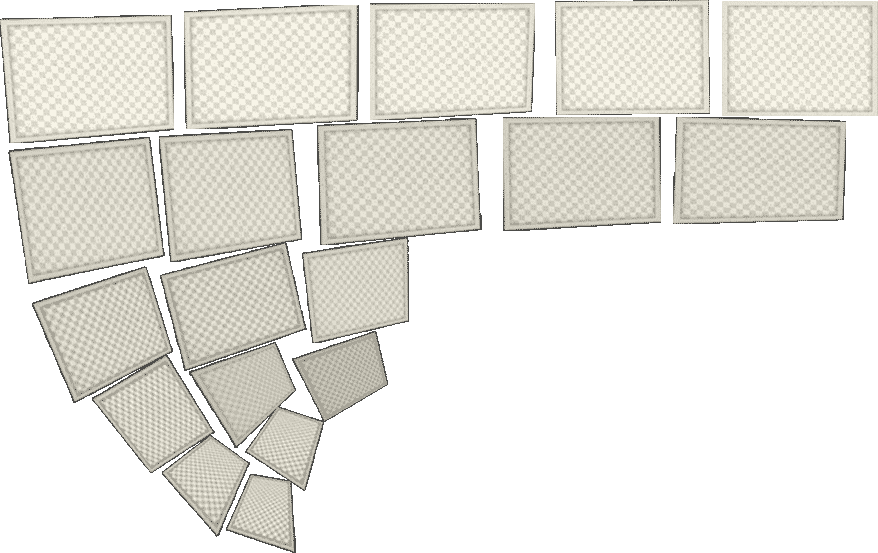
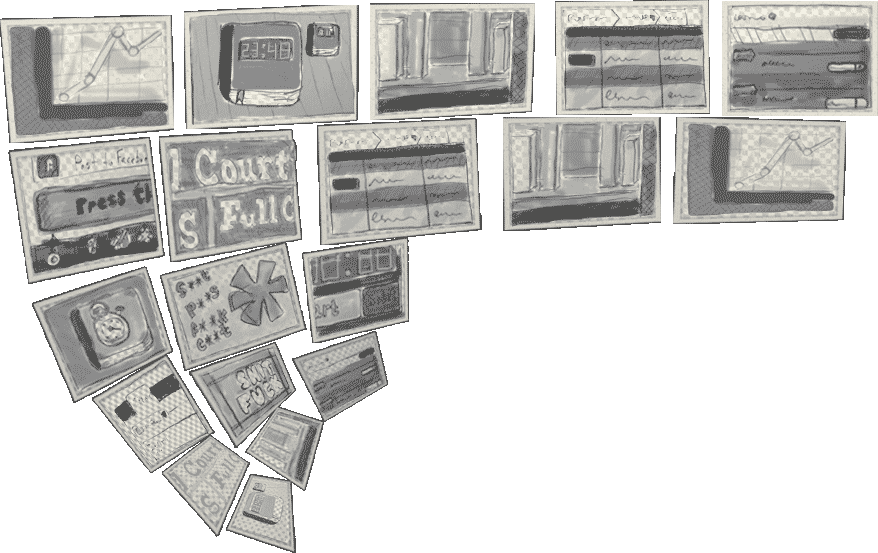
Adding Jribbble project

diff --git a/c/css/dist/core.css b/c/css/dist/core.css
@@ -1,1 +1,1 @@
-html,body,div,span,applet,object,iframe,h1,h2,h3,h4,h5,h6,p,blockquote,pre,a,abbr,acronym,address,big,cite,code,del,dfn,em,img,ins,kbd,q,s,samp,small,strike,strong,sub,sup,tt,var,b,u,i,center,dl,dt,dd,ol,ul,li,fieldset,form,label,legend,table,caption,tbody,tfoot,thead,tr,th,td,article,aside,canvas,details,embed,figure,figcaption,footer,header,hgroup,menu,nav,output,ruby,section,summary,time,mark,audio,video{margin:0;padding:0;border:0;font-size:100%;font:inherit;vertical-align:baseline}article,aside,details,figcaption,figure,footer,header,hgroup,menu,nav,section{display:block}body{line-height:1}ol,ul{list-style:none}blockquote,q{quotes:none}blockquote:before,blockquote:after,q:before,q:after{content:'';content:none}table{border-collapse:collapse;border-spacing:0}@font-face{font-family:"BebasNeueRegular";src:url("/fonts/BebasNeue-webfont.eot");src:url("/fonts/BebasNeue-webfont.eot?iefix") format("eot"), url("/fonts/BebasNeue-webfont.woff") format("woff"), url("/fonts/BebasNeue-webfont.ttf") format("truetype"), url("/fonts/BebasNeue-webfont.svg#webfontfvFLBU0N") format("svg")}::-moz-selection{background-color:#fce704;color:#201f1e;text-shadow:none}::selection{background-color:#fce704;color:#201f1e;-webkit-text-fill-color:#201f1e;text-shadow:none}html{background:#fefefe url(/images/html_bg_tile.gif) repeat 95%;padding:5px}body{background-color:#2b2a29;background-image:url(/images/body_bg_tile_03.png), url(/images/body_bg_tile_02.png), url(/images/body_bg_tile_01.png);background-repeat:repeat;background-position:95% -50%, 120%, 80%;border-width:6px;-moz-border-image:url(/images/body_border.png) 10 10 10 10 repeat repeat;-webkit-border-image:url(/images/body_border.png) 10 10 10 10 repeat repeat;border-image:url(/images/body_border.png) 10 10 10 10 repeat repeat;color:#f4efd3}header[role="banner"]{background-color:transparent;background-image:url(/images/banner_btm_border.png), url(/images/body_bg_tile_02.png), url(/images/banner_bg_tile.png);background-repeat:repeat-x, repeat, repeat;background-position:90% 105%, 70%, 90%;-moz-border-radius-topleft:6px;-webkit-border-top-left-radius:6px;-o-border-top-left-radius:6px;-ms-border-top-left-radius:6px;-khtml-border-top-left-radius:6px;border-top-left-radius:6px;-moz-border-radius-topright:6px;-webkit-border-top-right-radius:6px;-o-border-top-right-radius:6px;-ms-border-top-right-radius:6px;-khtml-border-top-right-radius:6px;border-top-right-radius:6px;color:#f0e9d7;font-family:helvetica, arial, sans-serif}header[role="banner"] > a{display:block;margin:0 auto;max-width:900px;opacity:0.9;padding:10px;text-align:center}header[role="banner"] > a:hover{opacity:1}header[role="banner"] hgroup{background:transparent url(/images/banner.png) no-repeat center top;-moz-background-size:100%;-webkit-background-size:100%;-o-background-size:100%;background-size:100%;padding-top:8.9%}header[role="banner"] h1,header[role="banner"] h2{font-size:1em;text-indent:-3000em}@media all and (max-width: 500px){header[role="banner"] > a{padding-top:4px}header[role="banner"] hgroup{background-image:url(/images/banner_narrow.png);padding-top:18%}}nav{margin:0 auto;max-width:900px;padding-right:12px}nav ul{background:#efe62f url(/images/header_text_bg_01.jpg) repeat left bottom;border-bottom:1px solid rgba(29, 29, 29, 0.5);display:inline-block;float:right;margin-bottom:-20px;padding:1px 8px 1px 8px;position:relative;top:-21px;-moz-transform:rotate(-0.4deg);-webkit-transform:rotate(-0.4deg);-o-transform:rotate(-0.4deg);-ms-transform:rotate(-0.4deg);transform:rotate(-0.4deg)}nav li{display:inline-block;margin-right:16px}nav li:last-child{margin-right:0}nav a{border-bottom:4px solid transparent;color:#2e2e2e;display:inline-block;font:2.3em/1em "atrament-web-1", "atrament-web-2", "BebasNeueRegular", helvetica, sans-serif;text-decoration:none;text-transform:uppercase}nav a:hover{border-bottom-color:#d45415;color:#000}#page-projects nav a[href*='projects'],#page-articles nav a[href*='articles'],#page-info nav a[href*='info']{border-bottom-color:#d45415;color:#000;cursor:default}#content{clear:both;font:1.3em/1em "chaparral-pro-1", "chaparral-pro-2", "Chaparral Pro", georgia, serif;-webkit-font-smoothing:antialiased}#content a{color:#fdec33;text-decoration:none}#content a:hover{background-color:rgba(255, 3, 104, 0.1);text-decoration:none;text-shadow:none}#content a.disabled{color:#757575;cursor:default}#content a.disabled:hover{background-color:transparent}h1{color:#fdec33;font:3.2em/1em "atrament-web-1", "atrament-web-2", "BebasNeueRegular", helvetica, sans-serif;text-transform:uppercase}footer[role="authorinfo"]{background:rgba(14, 14, 13, 0.1) url(/images/footer_top_border.png) repeat-x 90% top;-moz-border-radius-bottomleft:6px;-webkit-border-bottom-left-radius:6px;-o-border-bottom-left-radius:6px;-ms-border-bottom-left-radius:6px;-khtml-border-bottom-left-radius:6px;border-bottom-left-radius:6px;-moz-border-radius-bottomright:6px;-webkit-border-bottom-right-radius:6px;-o-border-bottom-right-radius:6px;-ms-border-bottom-right-radius:6px;-khtml-border-bottom-right-radius:6px;border-bottom-right-radius:6px;padding:15px 0;text-align:center}footer[role="authorinfo"] ul{margin:0 auto;max-width:900px}footer[role="authorinfo"] li{background:transparent url(/images/footer_item_divider.png) no-repeat right center;display:inline-block;padding-right:65px}footer[role="authorinfo"] li:last-child{background-image:none;padding-right:0}footer[role="authorinfo"] a{background:-moz-radial-gradient(center 45deg, circle closest-side, rgba(90, 169, 219, 0.2) 20px, transparent 21px);background:-webkit-gradient(radial, center center, 20, center center, 21, from(rgba(90, 169, 219, 0.2)), to(transparent));color:#f0f1f2;display:inline-block;font:2.1em/1em "atrament-web-1", "atrament-web-2", "BebasNeueRegular", helvetica, sans-serif;opacity:0.85;padding:6px 0px 9px 0px;text-align:center;text-decoration:none;text-transform:uppercase;text-shadow:rgba(0, 0, 0, 0.2) 0px 1px 1px}footer[role="authorinfo"] a:hover{opacity:1}footer[role="authorinfo"] a[href*='twitter']{background:-moz-radial-gradient(center 45deg, circle closest-side, rgba(90, 169, 219, 0.3) 20px, transparent 21px);background:-webkit-gradient(radial, center center, 20, center center, 21, from(rgba(90, 169, 219, 0.3)), to(transparent))}footer[role="authorinfo"] a[href*='dribbble']{background:-moz-radial-gradient(center 45deg, circle closest-side, rgba(246, 77, 192, 0.3) 20px, transparent 21px);background:-webkit-gradient(radial, center center, 20, center center, 21, from(rgba(246, 77, 192, 0.3)), to(transparent))}footer[role="authorinfo"] a[href*='rss']{background:-moz-radial-gradient(center 45deg, circle closest-side, rgba(255, 130, 39, 0.3) 20px, transparent 21px);background:-webkit-gradient(radial, center center, 20, center center, 21, from(rgba(255, 130, 39, 0.3)), to(transparent))}footer[role="authorinfo"] a[href*='readability']{background:-moz-radial-gradient(center 45deg, circle closest-side, rgba(184, 28, 40, 0.3) 20px, transparent 21px);background:-webkit-gradient(radial, center center, 20, center center, 21, from(rgba(184, 28, 40, 0.3)), to(transparent))}@media all and (max-width: 615px){footer[role="authorinfo"] a{font-size:1.7em}footer[role="authorinfo"] li{padding-right:40px}}#articles{clear:both;margin:0 auto;max-width:900px;overflow:hidden;padding:0 10px 15px 10px}#articles li{background-color:transparent;background-repeat:no-repeat;background-position:4% center;-moz-background-size:18%;-webkit-background-size:18%;-o-background-size:18%;background-size:18%;margin:10px auto}#articles a{display:block;padding:36px 0 40px 26%;-moz-transition-property:padding;-webkit-transition-property:padding;-o-transition-property:padding;transition-property:padding;-moz-transition-duration:0.2s;-webkit-transition-duration:0.2s;-o-transition-duration:0.2s;transition-duration:0.2s}#articles a:hover{background-color:transparent}#articles a:hover b{background-color:rgba(255, 3, 104, 0.1);border-bottom-color:#fdec33}#articles time{background:transparent url(/images/horizontal_divider.png) repeat-x 20% center;color:#2d2d2d;display:block;font-size:0.75em;font-style:italic;font-weight:600}#articles time span{background-color:#eedf42;padding:0 4px}#articles h2{color:#f1f1f1;font:2.5em/1em "atrament-web-1", "atrament-web-2", "BebasNeueRegular", helvetica, sans-serif;margin-top:4px;text-transform:uppercase}#articles p{color:#f1f1f1;clear:right;font-size:0.95em;font-style:italic;line-height:1.3em}#articles b{border-bottom:1px solid rgba(253, 236, 51, 0.2);display:inline-block;font-size:0.75em;font-style:italic;margin-top:8px;float:right}#articles .all-talkie-talkie{background-image:url(/images/entryAssets/all-talkie-talkie/listingGraphic.png);-moz-background-size:22%;-webkit-background-size:22%;-o-background-size:22%;background-size:22%}#articles .i-less-than-three-ie6{background-image:url(/images/entryAssets/i-less-than-three-ie6/listingGraphic.png)}#articles .you-did-what-with-what{background-image:url(/images/entryAssets/you-did-what-with-what/listingGraphic.png);-moz-background-size:20%;-webkit-background-size:20%;-o-background-size:20%;background-size:20%}@media all and (max-width: 615px){#articles h2{font-size:1.8em}#articles li,#articles .i-less-than-three-ie6,#articles .you-did-what-with-what,#articles .all-talkie-talkie{background-image:none;width:95%}#articles a{padding:18px 0 24px 0}}#article{clear:both;margin:0 auto;max-width:900px;overflow:hidden;padding:0 10px 15px 10px}.hentry footer{background:transparent url(/images/yellow_border.png) no-repeat 110% top;clear:both;float:right;font-size:0.8em;padding-top:14px;width:70%}.hentry footer strong{background:transparent url(/images/article_thanks.png) no-repeat left top;display:inline-block;height:56px;position:relative;text-indent:-300em;top:-18px;left:-15px;width:239px}.hentry footer a{float:right;margin-right:14px}.entry-title{clear:both;font-size:3.8em;margin-bottom:20px;padding:14px 0 10px 30%}.entry-content{float:right;width:70%}.entry-content p{font-size:1.08em;line-height:1.25em;padding-bottom:1.4em;text-shadow:#080808 0px 0px 2px}.entry-content p:last-child{padding-bottom:0.8em}.entry-content p img{width:100%}.entry-content p strong{color:#fff;font-weight:700}.entry-content p.intro{color:#f1f1f1;font-size:1.22em;font-style:italic;padding-bottom:1.6em}.entry-meta{float:left;font-size:0.75em;margin-top:10px;width:30%}.entry-meta i{color:#9e9b8b;font-style:italic;font-weight:400;display:inline-block;width:75px}.entry-meta li{padding-bottom:3px;font-weight:600}.entry-meta #rdbWrapper{background:transparent url(/images/horizontal_divider.png) repeat-x left top;margin-top:4px;min-width:160px;padding-top:15px;width:65%}@media all and (max-width: 690px){.entry-meta{background-image:url(/images/horizontal_divider.png), url(/images/horizontal_divider.png);background-repeat:repeat-x;background-position:left top, left bottom;float:none;margin-bottom:20px;overflow:hidden;padding:15px 0 8px 0;width:95%}.entry-meta li{padding:0 0 0 15px}.entry-meta #rdbWrapper{background:none;margin-top:6px;min-width:auto;padding-top:0;width:auto}.entry-content{float:none;margin:0 auto;width:95%}.hentry footer{background:transparent url(/images/yellow_border.png) no-repeat 110% top;float:none;margin:0 auto;width:95%}}@media all and (max-width: 480px){.hentry footer strong{-moz-background-size:100%;-webkit-background-size:100%;-o-background-size:100%;background-size:100%;top:-8px;width:200px}}#article #i-less-than-three-ie6{background:transparent url(/images/entryAssets/i-less-than-three-ie6/ie6Logo.png) no-repeat 5% top;-moz-background-size:55%;-webkit-background-size:55%;-o-background-size:55%;background-size:55%;overflow:hidden}#article #i-less-than-three-ie6 .entry-title{color:#0490da;font:5em/1em "atrament-web-1", "atrament-web-2", "BebasNeueRegular", helvetica, sans-serif;font-weight:600;letter-spacing:0.05em;padding:40px 0 30px 0;text-align:center;text-shadow:#054f76 1px 1px 0px, #043f5e 2px 2px 0px, #03354f 3px 3px 0px, #03324a 4px 4px 0px, #032e45 5px 5px 0px}#article #i-less-than-three-ie6 .entry-title::-moz-selection{background-color:#d20d24;color:#fff;text-shadow:none}#article #i-less-than-three-ie6 .entry-title::selection{background-color:#d20d24;color:#fff;text-shadow:none;-webkit-text-fill-color:#fff}#article #i-less-than-three-ie6 .entry-title span{color:#f40b27;text-shadow:#860000 1px 1px 0px, #6d0000 2px 2px 0px, #5d0000 3px 3px 0px, #580000 4px 4px 0px, #530000 5px 5px 0px}#article #i-less-than-three-ie6 .entry-title span::-moz-selection{background-color:#d20d24;color:#fff;text-shadow:none}#article #i-less-than-three-ie6 .entry-title span::selection{background-color:#d20d24;color:#fff;text-shadow:none;-webkit-text-fill-color:#fff}#article #i-less-than-three-ie6 .dropCap{color:#0490da;display:inline-block;font-size:4.2em;font-style:normal;line-height:0.75em;text-align:left;text-shadow:#054f76 1px 1px 0px, #043f5e 2px 2px 0px, #03354f 3px 3px 0px, #03324a 4px 4px 0px, #032e45 5px 5px 0px;vertical-align:top;float:left;width:48px;padding-top:10px}#projects{margin:0 auto;max-width:900px;overflow:hidden;padding:20px 0;width:95%}#projects li{margin:0 auto 40px auto;overflow:hidden;width:100%;-moz-transition-duration:0.2s;-webkit-transition-duration:0.2s;-o-transition-duration:0.2s;transition-duration:0.2s;-moz-transition-property:background-position, padding;-webkit-transition-property:background-position, padding;-o-transition-property:background-position, padding;transition-property:background-position, padding}#projects h1{background:transparent url(/images/fuzzy_grain.png) repeat 90%;color:#1d1d1d;display:inline-block;font-size:4em;-moz-transition-duration:0.2s;-webkit-transition-duration:0.2s;-o-transition-duration:0.2s;transition-duration:0.2s;-moz-transition-property:font-size;-webkit-transition-property:font-size;-o-transition-property:font-size;transition-property:font-size}#projects p{line-height:1.3;-moz-transition-duration:0.2s;-webkit-transition-duration:0.2s;-o-transition-duration:0.2s;transition-duration:0.2s;-moz-transition-property:width;-webkit-transition-property:width;-o-transition-property:width;transition-property:width;width:51%}#projects footer{background:transparent url(/images/horizontal_divider.png) repeat-x left top;line-height:1.3;margin-top:12px;padding-top:12px;text-align:right;width:50%}#projects footer a:first-child{font-size:1.12em;font-weight:600}#projects footer a:last-child{color:#8b8a88;font-size:0.9em;font-style:italic}#projects footer a:last-child mark{background-color:transparent;color:#fffde3}@media all and (max-width: 600px){#projects li{width:95%}#projects p{float:right;font-size:0.85em;width:65%}#projects footer{clear:both;float:right;width:100%}}.alternate-layout p,#fullcourtshots p,.alternate-layout footer,#fullcourtshots footer{clear:right;float:right}#fullcourtshots{background:transparent url(/images/project_fcs_bg_full.png) no-repeat 39% 30%;-moz-background-size:94%;-webkit-background-size:94%;-o-background-size:94%;background-size:94%;padding:15% 0 8% 0}#fullcourtshots h1{background-color:#ea8111;clear:both;float:right;font-size:5.8em;line-height:0.8;margin-bottom:18px;text-align:right}@media all and (max-width: 750px){#fullcourtshots{background-position:39% 14%;padding:15% 0 0 0}#fullcourtshots h1{font-size:4.6em;margin-bottom:8px}}@media all and (max-width: 600px){#fullcourtshots{background:transparent url(/images/project_fcs_bg_small.png) no-repeat left 25%;-moz-background-size:34%;-webkit-background-size:34%;-o-background-size:34%;background-size:34%;padding:0}#fullcourtshots h1{font-size:2.6em;text-align:left;float:none}}#themanfromhollywood{background:transparent url(/images/project_mfh_bg_full.png) no-repeat right 45%;-moz-background-size:98%;-webkit-background-size:98%;-o-background-size:98%;background-size:98%;padding:11% 0 2% 0}#themanfromhollywood h1{background-image:none;clear:both;font-size:5.8em;line-height:0.85;margin-bottom:14px}#themanfromhollywood h1 span{background:#a8194b url(/images/fuzzy_grain.png) repeat 90%;display:inline-block}#themanfromhollywood h1 span:first-child{font-size:0.85em}@media all and (max-width: 720px){#themanfromhollywood{background-position:right top;padding:8% 0 0 0}#themanfromhollywood h1{font-size:4.9em}}@media all and (max-width: 600px){#themanfromhollywood{background:transparent url(/images/project_mfh_bg_small.png) no-repeat left 120px;-moz-background-size:34%;-webkit-background-size:34%;-o-background-size:34%;background-size:34%;padding:0}#themanfromhollywood h1{font-size:3em;text-align:left;float:none}}#info{background:transparent url(/images/tylergaw_portrait.png) no-repeat 34% top;clear:both;margin:26px auto 0 auto;max-width:900px;overflow:hidden;padding:0 10px 15px 10px;-moz-transition-property:background-position;-webkit-transition-property:background-position;-o-transition-property:background-position;transition-property:background-position;-moz-transition-duration:0.2s;-webkit-transition-duration:0.2s;-o-transition-duration:0.2s;transition-duration:0.2s}#info h1{background:#ff0368 url(/images/fuzzy_grain.png) repeat 90%;clear:both;color:#1d1d1d;display:inline-block;float:left;font-size:3.5em;line-height:0.78em;margin-bottom:14px;overflow:hidden}#info .column-one{clear:left;float:left;width:35%}#info .column-two{clear:right;float:right;width:46%}#info .column-two p{clear:both;float:right;width:75%}#info .column-two h3{background-color:#f2e517;clear:both;color:#2b2a29;font-size:1.1em;font-weight:600;padding:6px 4px 7px 4px;text-align:right}#info .column-two h3 a{color:#e82573;text-decoration:none}#info .column-two h3 a:hover{color:black;background-color:transparent}#info p{font-size:0.95em;line-height:1.3em;padding-bottom:16px;text-shadow:#080808 0px 0px 2px}@media all and (max-width: 810px){#info{background-position:35% 6px;-moz-background-size:78%;-webkit-background-size:78%;-o-background-size:78%;background-size:78%}}@media all and (max-width: 615px){#info{background-position:200% 20px}#info h1{font-size:2.5em}#info .column-one p{width:70%}#info .column-one,#info .column-two,#info .column-two p{clear:both;float:none;width:100%}#info .column-two h3{text-align:center}}@media all and (max-width: 480px){#info h1{font-size:2.1em;margin-bottom:8px}}
+html,body,div,span,applet,object,iframe,h1,h2,h3,h4,h5,h6,p,blockquote,pre,a,abbr,acronym,address,big,cite,code,del,dfn,em,img,ins,kbd,q,s,samp,small,strike,strong,sub,sup,tt,var,b,u,i,center,dl,dt,dd,ol,ul,li,fieldset,form,label,legend,table,caption,tbody,tfoot,thead,tr,th,td,article,aside,canvas,details,embed,figure,figcaption,footer,header,hgroup,menu,nav,output,ruby,section,summary,time,mark,audio,video{margin:0;padding:0;border:0;font-size:100%;font:inherit;vertical-align:baseline}article,aside,details,figcaption,figure,footer,header,hgroup,menu,nav,section{display:block}body{line-height:1}ol,ul{list-style:none}blockquote,q{quotes:none}blockquote:before,blockquote:after,q:before,q:after{content:'';content:none}table{border-collapse:collapse;border-spacing:0}@font-face{font-family:"BebasNeueRegular";src:url("/fonts/BebasNeue-webfont.eot");src:url("/fonts/BebasNeue-webfont.eot?iefix") format("eot"), url("/fonts/BebasNeue-webfont.woff") format("woff"), url("/fonts/BebasNeue-webfont.ttf") format("truetype"), url("/fonts/BebasNeue-webfont.svg#webfontfvFLBU0N") format("svg")}::-moz-selection{background-color:#fce704;color:#201f1e;text-shadow:none}::selection{background-color:#fce704;color:#201f1e;-webkit-text-fill-color:#201f1e;text-shadow:none}html{background:#fefefe url(/images/html_bg_tile.gif) repeat 95%;padding:5px}body{background-color:#2b2a29;background-image:url(/images/body_bg_tile_03.png), url(/images/body_bg_tile_02.png), url(/images/body_bg_tile_01.png);background-repeat:repeat;background-position:95% -50%, 120%, 80%;border-width:6px;-moz-border-image:url(/images/body_border.png) 10 10 10 10 repeat repeat;-webkit-border-image:url(/images/body_border.png) 10 10 10 10 repeat repeat;border-image:url(/images/body_border.png) 10 10 10 10 repeat repeat;color:#f4efd3}header[role="banner"]{background-color:transparent;background-image:url(/images/banner_btm_border.png), url(/images/body_bg_tile_02.png), url(/images/banner_bg_tile.png);background-repeat:repeat-x, repeat, repeat;background-position:90% 105%, 70%, 90%;-moz-border-radius-topleft:6px;-webkit-border-top-left-radius:6px;-o-border-top-left-radius:6px;-ms-border-top-left-radius:6px;-khtml-border-top-left-radius:6px;border-top-left-radius:6px;-moz-border-radius-topright:6px;-webkit-border-top-right-radius:6px;-o-border-top-right-radius:6px;-ms-border-top-right-radius:6px;-khtml-border-top-right-radius:6px;border-top-right-radius:6px;color:#f0e9d7;font-family:helvetica, arial, sans-serif}header[role="banner"] > a{display:block;margin:0 auto;max-width:900px;opacity:0.9;padding:10px;text-align:center}header[role="banner"] > a:hover{opacity:1}header[role="banner"] hgroup{background:transparent url(/images/banner.png) no-repeat center top;-moz-background-size:100%;-webkit-background-size:100%;-o-background-size:100%;background-size:100%;padding-top:8.9%}header[role="banner"] h1,header[role="banner"] h2{font-size:1em;text-indent:-3000em}@media all and (max-width: 500px){header[role="banner"] > a{padding-top:4px}header[role="banner"] hgroup{background-image:url(/images/banner_narrow.png);padding-top:18%}}nav{margin:0 auto;max-width:900px;padding-right:12px}nav ul{background:#efe62f url(/images/header_text_bg_01.jpg) repeat left bottom;border-bottom:1px solid rgba(29, 29, 29, 0.5);display:inline-block;float:right;margin-bottom:-20px;padding:1px 8px 1px 8px;position:relative;top:-21px;-moz-transform:rotate(-0.4deg);-webkit-transform:rotate(-0.4deg);-o-transform:rotate(-0.4deg);-ms-transform:rotate(-0.4deg);transform:rotate(-0.4deg)}nav li{display:inline-block;margin-right:16px}nav li:last-child{margin-right:0}nav a{border-bottom:4px solid transparent;color:#2e2e2e;display:inline-block;font:2.3em/1em "atrament-web-1", "atrament-web-2", "BebasNeueRegular", helvetica, sans-serif;text-decoration:none;text-transform:uppercase}nav a:hover{border-bottom-color:#d45415;color:#000}#page-projects nav a[href*='projects'],#page-articles nav a[href*='articles'],#page-info nav a[href*='info']{border-bottom-color:#d45415;color:#000;cursor:default}#content{clear:both;font:1.3em/1em "chaparral-pro-1", "chaparral-pro-2", "Chaparral Pro", georgia, serif;-webkit-font-smoothing:antialiased}#content a{color:#fdec33;text-decoration:none}#content a:hover{background-color:rgba(255, 3, 104, 0.1);text-decoration:none;text-shadow:none}#content a.disabled{color:#757575;cursor:default}#content a.disabled:hover{background-color:transparent}h1{color:#fdec33;font:3.2em/1em "atrament-web-1", "atrament-web-2", "BebasNeueRegular", helvetica, sans-serif;text-transform:uppercase}footer[role="authorinfo"]{background:rgba(14, 14, 13, 0.1) url(/images/footer_top_border.png) repeat-x 90% top;-moz-border-radius-bottomleft:6px;-webkit-border-bottom-left-radius:6px;-o-border-bottom-left-radius:6px;-ms-border-bottom-left-radius:6px;-khtml-border-bottom-left-radius:6px;border-bottom-left-radius:6px;-moz-border-radius-bottomright:6px;-webkit-border-bottom-right-radius:6px;-o-border-bottom-right-radius:6px;-ms-border-bottom-right-radius:6px;-khtml-border-bottom-right-radius:6px;border-bottom-right-radius:6px;padding:15px 0;text-align:center}footer[role="authorinfo"] ul{margin:0 auto;max-width:900px}footer[role="authorinfo"] li{background:transparent url(/images/footer_item_divider.png) no-repeat right center;display:inline-block;padding-right:65px}footer[role="authorinfo"] li:last-child{background-image:none;padding-right:0}footer[role="authorinfo"] a{background:-moz-radial-gradient(center 45deg, circle closest-side, rgba(90, 169, 219, 0.2) 20px, transparent 21px);background:-webkit-gradient(radial, center center, 20, center center, 21, from(rgba(90, 169, 219, 0.2)), to(transparent));color:#f0f1f2;display:inline-block;font:2.1em/1em "atrament-web-1", "atrament-web-2", "BebasNeueRegular", helvetica, sans-serif;opacity:0.85;padding:6px 0px 9px 0px;text-align:center;text-decoration:none;text-transform:uppercase;text-shadow:rgba(0, 0, 0, 0.2) 0px 1px 1px}footer[role="authorinfo"] a:hover{opacity:1}footer[role="authorinfo"] a[href*='twitter']{background:-moz-radial-gradient(center 45deg, circle closest-side, rgba(90, 169, 219, 0.3) 20px, transparent 21px);background:-webkit-gradient(radial, center center, 20, center center, 21, from(rgba(90, 169, 219, 0.3)), to(transparent))}footer[role="authorinfo"] a[href*='dribbble']{background:-moz-radial-gradient(center 45deg, circle closest-side, rgba(246, 77, 192, 0.3) 20px, transparent 21px);background:-webkit-gradient(radial, center center, 20, center center, 21, from(rgba(246, 77, 192, 0.3)), to(transparent))}footer[role="authorinfo"] a[href*='rss']{background:-moz-radial-gradient(center 45deg, circle closest-side, rgba(255, 130, 39, 0.3) 20px, transparent 21px);background:-webkit-gradient(radial, center center, 20, center center, 21, from(rgba(255, 130, 39, 0.3)), to(transparent))}footer[role="authorinfo"] a[href*='readability']{background:-moz-radial-gradient(center 45deg, circle closest-side, rgba(184, 28, 40, 0.3) 20px, transparent 21px);background:-webkit-gradient(radial, center center, 20, center center, 21, from(rgba(184, 28, 40, 0.3)), to(transparent))}@media all and (max-width: 615px){footer[role="authorinfo"] a{font-size:1.7em}footer[role="authorinfo"] li{padding-right:40px}}#articles{clear:both;margin:0 auto;max-width:900px;overflow:hidden;padding:0 10px 15px 10px}#articles li{background-color:transparent;background-repeat:no-repeat;background-position:4% center;-moz-background-size:18%;-webkit-background-size:18%;-o-background-size:18%;background-size:18%;margin:10px auto}#articles a{display:block;padding:36px 0 40px 26%;-moz-transition-property:padding;-webkit-transition-property:padding;-o-transition-property:padding;transition-property:padding;-moz-transition-duration:0.2s;-webkit-transition-duration:0.2s;-o-transition-duration:0.2s;transition-duration:0.2s}#articles a:hover{background-color:transparent}#articles a:hover b{background-color:rgba(255, 3, 104, 0.1);border-bottom-color:#fdec33}#articles time{background:transparent url(/images/horizontal_divider.png) repeat-x 20% center;color:#2d2d2d;display:block;font-size:0.75em;font-style:italic;font-weight:600}#articles time span{background-color:#eedf42;padding:0 4px}#articles h2{color:#f1f1f1;font:2.5em/1em "atrament-web-1", "atrament-web-2", "BebasNeueRegular", helvetica, sans-serif;margin-top:4px;text-transform:uppercase}#articles p{color:#f1f1f1;clear:right;font-size:0.95em;font-style:italic;line-height:1.3em}#articles b{border-bottom:1px solid rgba(253, 236, 51, 0.2);display:inline-block;font-size:0.75em;font-style:italic;margin-top:8px;float:right}#articles .all-talkie-talkie{background-image:url(/images/entryAssets/all-talkie-talkie/listingGraphic.png);-moz-background-size:22%;-webkit-background-size:22%;-o-background-size:22%;background-size:22%}#articles .i-less-than-three-ie6{background-image:url(/images/entryAssets/i-less-than-three-ie6/listingGraphic.png)}#articles .you-did-what-with-what{background-image:url(/images/entryAssets/you-did-what-with-what/listingGraphic.png);-moz-background-size:20%;-webkit-background-size:20%;-o-background-size:20%;background-size:20%}@media all and (max-width: 615px){#articles h2{font-size:1.8em}#articles li,#articles .i-less-than-three-ie6,#articles .you-did-what-with-what,#articles .all-talkie-talkie{background-image:none;width:95%}#articles a{padding:18px 0 24px 0}}#article{clear:both;margin:0 auto;max-width:900px;overflow:hidden;padding:0 10px 15px 10px}.hentry footer{background:transparent url(/images/yellow_border.png) no-repeat 110% top;clear:both;float:right;font-size:0.8em;padding-top:14px;width:70%}.hentry footer strong{background:transparent url(/images/article_thanks.png) no-repeat left top;display:inline-block;height:56px;position:relative;text-indent:-300em;top:-18px;left:-15px;width:239px}.hentry footer a{float:right;margin-right:14px}.entry-title{clear:both;font-size:3.8em;margin-bottom:20px;padding:14px 0 10px 30%}.entry-content{float:right;width:70%}.entry-content p{font-size:1.08em;line-height:1.25em;padding-bottom:1.4em;text-shadow:#080808 0px 0px 2px}.entry-content p:last-child{padding-bottom:0.8em}.entry-content p img{width:100%}.entry-content p strong{color:#fff;font-weight:700}.entry-content p.intro{color:#f1f1f1;font-size:1.22em;font-style:italic;padding-bottom:1.6em}.entry-meta{float:left;font-size:0.75em;margin-top:10px;width:30%}.entry-meta i{color:#9e9b8b;font-style:italic;font-weight:400;display:inline-block;width:75px}.entry-meta li{padding-bottom:3px;font-weight:600}.entry-meta #rdbWrapper{background:transparent url(/images/horizontal_divider.png) repeat-x left top;margin-top:4px;min-width:160px;padding-top:15px;width:65%}@media all and (max-width: 690px){.entry-meta{background-image:url(/images/horizontal_divider.png), url(/images/horizontal_divider.png);background-repeat:repeat-x;background-position:left top, left bottom;float:none;margin-bottom:20px;overflow:hidden;padding:15px 0 8px 0;width:95%}.entry-meta li{padding:0 0 0 15px}.entry-meta #rdbWrapper{background:none;margin-top:6px;min-width:auto;padding-top:0;width:auto}.entry-content{float:none;margin:0 auto;width:95%}.hentry footer{background:transparent url(/images/yellow_border.png) no-repeat 110% top;float:none;margin:0 auto;width:95%}}@media all and (max-width: 480px){.hentry footer strong{-moz-background-size:100%;-webkit-background-size:100%;-o-background-size:100%;background-size:100%;top:-8px;width:200px}}#article #i-less-than-three-ie6{background:transparent url(/images/entryAssets/i-less-than-three-ie6/ie6Logo.png) no-repeat 5% top;-moz-background-size:55%;-webkit-background-size:55%;-o-background-size:55%;background-size:55%;overflow:hidden}#article #i-less-than-three-ie6 .entry-title{color:#0490da;font:5em/1em "atrament-web-1", "atrament-web-2", "BebasNeueRegular", helvetica, sans-serif;font-weight:600;letter-spacing:0.05em;padding:40px 0 30px 0;text-align:center;text-shadow:#054f76 1px 1px 0px, #043f5e 2px 2px 0px, #03354f 3px 3px 0px, #03324a 4px 4px 0px, #032e45 5px 5px 0px}#article #i-less-than-three-ie6 .entry-title::-moz-selection{background-color:#d20d24;color:#fff;text-shadow:none}#article #i-less-than-three-ie6 .entry-title::selection{background-color:#d20d24;color:#fff;text-shadow:none;-webkit-text-fill-color:#fff}#article #i-less-than-three-ie6 .entry-title span{color:#f40b27;text-shadow:#860000 1px 1px 0px, #6d0000 2px 2px 0px, #5d0000 3px 3px 0px, #580000 4px 4px 0px, #530000 5px 5px 0px}#article #i-less-than-three-ie6 .entry-title span::-moz-selection{background-color:#d20d24;color:#fff;text-shadow:none}#article #i-less-than-three-ie6 .entry-title span::selection{background-color:#d20d24;color:#fff;text-shadow:none;-webkit-text-fill-color:#fff}#article #i-less-than-three-ie6 .dropCap{color:#0490da;display:inline-block;font-size:4.2em;font-style:normal;line-height:0.75em;text-align:left;text-shadow:#054f76 1px 1px 0px, #043f5e 2px 2px 0px, #03354f 3px 3px 0px, #03324a 4px 4px 0px, #032e45 5px 5px 0px;vertical-align:top;float:left;width:48px;padding-top:10px}#projects{margin:0 auto;max-width:900px;overflow:hidden;padding:20px 0;width:95%}#projects li{overflow:hidden;width:100%;-moz-transition-duration:0.2s;-webkit-transition-duration:0.2s;-o-transition-duration:0.2s;transition-duration:0.2s;-moz-transition-property:background-position, padding;-webkit-transition-property:background-position, padding;-o-transition-property:background-position, padding;transition-property:background-position, padding}#projects h1{background:transparent url(/images/fuzzy_grain.png) repeat 90%;color:#1d1d1d;display:inline-block;font-size:4em;-moz-transition-duration:0.2s;-webkit-transition-duration:0.2s;-o-transition-duration:0.2s;transition-duration:0.2s;-moz-transition-property:font-size;-webkit-transition-property:font-size;-o-transition-property:font-size;transition-property:font-size}#projects p{line-height:1.3;-moz-transition-duration:0.2s;-webkit-transition-duration:0.2s;-o-transition-duration:0.2s;transition-duration:0.2s;-moz-transition-property:width;-webkit-transition-property:width;-o-transition-property:width;transition-property:width;width:51%}#projects footer{background:transparent url(/images/horizontal_divider.png) repeat-x left top;line-height:1.3;margin-top:12px;padding-top:12px;text-align:right;width:50%}#projects footer a:first-child{display:inline-block;font-size:1.12em;font-weight:600;overflow:hidden;text-overflow:ellipsis;white-space:nowrap;width:100%}#projects footer a:last-child{color:#8b8a88;font-size:0.9em;font-style:italic}#projects footer a:last-child mark{background-color:transparent;color:#fffde3}@media all and (max-width: 600px){#projects li{width:95%}#projects p{float:right;font-size:0.85em;width:65%}#projects footer{clear:both;float:right;width:100%}}.alternate-layout p,#fullcourtshots p,.alternate-layout footer,#fullcourtshots footer{clear:right;float:right}#fullcourtshots{background:transparent url(/images/project_fcs_bg_full.png) no-repeat 39% 30%;-moz-background-size:94%;-webkit-background-size:94%;-o-background-size:94%;background-size:94%;margin-bottom:0px;padding:15% 0 8% 0}#fullcourtshots h1{background-color:#ea8111;clear:both;float:right;font-size:5.8em;line-height:0.8;margin-bottom:18px;text-align:right}@media all and (max-width: 750px){#fullcourtshots{background-position:39% 14%;padding:15% 0 0 0}#fullcourtshots h1{font-size:4.6em;margin-bottom:8px}}@media all and (max-width: 600px){#fullcourtshots{background:transparent url(/images/project_fcs_bg_small.png) no-repeat left 25%;-moz-background-size:34%;-webkit-background-size:34%;-o-background-size:34%;background-size:34%;padding:0}#fullcourtshots h1{font-size:2.6em;text-align:left;float:none}}#jribbble{background:transparent url(/images/project_jribbble_bg_full.png) no-repeat right 4%;-moz-background-size:65%;-webkit-background-size:65%;-o-background-size:65%;background-size:65%;margin-bottom:-40px;padding:26% 0 8% 0;position:relative;top:-70px}#jribbble h1{background-color:#fb389d;clear:both;font-size:7.4em;line-height:0.8;margin-bottom:10px}#themanfromhollywood{background:transparent url(/images/project_mfh_bg_full.png) no-repeat right 45%;-moz-background-size:98%;-webkit-background-size:98%;-o-background-size:98%;background-size:98%;margin:10px 0 95px 0;padding:11% 0 2% 0}#themanfromhollywood h1{background-image:none;clear:both;font-size:5.8em;line-height:0.85;margin-bottom:14px}#themanfromhollywood h1 span{background:#a8194b url(/images/fuzzy_grain.png) repeat 90%;display:inline-block}#themanfromhollywood h1 span:first-child{font-size:0.85em}@media all and (max-width: 720px){#themanfromhollywood{background-position:right top;padding:8% 0 0 0}#themanfromhollywood h1{font-size:4.9em}}@media all and (max-width: 600px){#themanfromhollywood{background:transparent url(/images/project_mfh_bg_small.png) no-repeat left 120px;-moz-background-size:34%;-webkit-background-size:34%;-o-background-size:34%;background-size:34%;padding:0}#themanfromhollywood h1{font-size:3em;text-align:left;float:none}}#info{background:transparent url(/images/tylergaw_portrait.png) no-repeat 34% top;clear:both;margin:26px auto 0 auto;max-width:900px;overflow:hidden;padding:0 10px 15px 10px;-moz-transition-property:background-position;-webkit-transition-property:background-position;-o-transition-property:background-position;transition-property:background-position;-moz-transition-duration:0.2s;-webkit-transition-duration:0.2s;-o-transition-duration:0.2s;transition-duration:0.2s}#info h1{background:#ff0368 url(/images/fuzzy_grain.png) repeat 90%;clear:both;color:#1d1d1d;display:inline-block;float:left;font-size:3.5em;line-height:0.78em;margin-bottom:14px;overflow:hidden}#info .column-one{clear:left;float:left;width:35%}#info .column-two{clear:right;float:right;width:46%}#info .column-two p{clear:both;float:right;width:75%}#info .column-two h3{background-color:#f2e517;clear:both;color:#2b2a29;font-size:1.1em;font-weight:600;padding:6px 4px 7px 4px;text-align:right}#info .column-two h3 a{color:#e82573;text-decoration:none}#info .column-two h3 a:hover{color:black;background-color:transparent}#info p{font-size:0.95em;line-height:1.3em;padding-bottom:16px;text-shadow:#080808 0px 0px 2px}@media all and (max-width: 810px){#info{background-position:35% 6px;-moz-background-size:78%;-webkit-background-size:78%;-o-background-size:78%;background-size:78%}}@media all and (max-width: 615px){#info{background-position:200% 20px}#info h1{font-size:2.5em}#info .column-one p{width:70%}#info .column-one,#info .column-two,#info .column-two p{clear:both;float:none;width:100%}#info .column-two h3{text-align:center}}@media all and (max-width: 480px){#info h1{font-size:2.1em;margin-bottom:8px}}

diff --git a/views/projects/index.html b/views/projects/index.html
@@ -1,17 +1,4 @@
 <ul id="projects">
-	<li id="fullcourtshots">
-		<h1>
-			Full Court Shots
-		</h1>
-		<p>
-			I wanted a way to get an at-a-glance view of all the latest and greatest design snapshots from the design-a-thon that is Dribbble.com. This weekend project of mine continues to be a source of design inspiration for me and the handful of other design lovers that frequent it.
-		</p>
-		<footer>
-			<a href="http://fullcourtshots.com">http://fullcourtshots.com</a>
-			<br>
-			<a href="http://github.com/tylergaw/fullcourtshots">Fork it on <mark>GitHub</mark></a>
-		</footer>
-	</li>
 	<li id="themanfromhollywood">
 		<h1>
 			<span>The Man</span><br><span>from Hollywood</span>
@@ -20,9 +7,35 @@
 			Would it be possible to create a kinetic type animation using only CSS transitions and a whole lot of elbow grease? I thought so. TMFH is a first-of-its kind demo of how far CSS animation can be taken.
 		</p>
 		<footer>
-			<a href="http://tylergaw.com/lab/themanfromhollywood">/lab/themanfromhollywood</a>
+			<a href="http://tylergaw.com/lab/themanfromhollywood">tylergaw.com/lab/themanfromhollywood</a>
 			<br>
 			<a href="http://github.com/tylergaw/themanfromhollywood">Fork it on <mark>GitHub</mark></a>
+		</footer>
+	</li>
+	<li id="fullcourtshots">
+		<h1>
+			Full Court Shots
+		</h1>
+		<p>
+			I wanted a way to get an at-a-glance view of all the latest and greatest design snapshots from the design-a-thon that is Dribbble.com. This weekend project of mine continues to be a source of design inspiration for me and the handful of other design lovers that frequent it.
+		</p>
+		<footer>
+			<a href="http://fullcourtshots.com">fullcourtshots.com</a>
+			<br>
+			<a href="http://github.com/tylergaw/fullcourtshots">Fork it on <mark>GitHub</mark></a>
+		</footer>
+	</li>
+	<li id="jribbble">
+		<h1>
+			Jribbble
+		</h1>
+		<p>
+			When a popular web service releases a public API it's like the dinner bell is ringing. Web developers everywhere rush to start consuming that open data as quick as possible. Jribbble was my reaction to Dribbble.com releasing their API. It is a jQuery plugin that can be used to easily pull shot and player information that is available from the web service.
+		</p>
+		<footer>
+			<a href="http://tylergaw.com/lab/jribbble">tylergaw.com/lab/jribbble</a>
+			<br>
+			<a href="http://github.com/tylergaw/jribbble">Fork it on <mark>GitHub</mark></a>
 		</footer>
 	</li>
 </ul>

diff --git a/c/css/src/_projects.scss b/c/css/src/_projects.scss
@@ -8,7 +8,6 @@
 	
 	li
 	{		
-		margin: 0 auto 40px auto;
 		overflow: hidden;
 		width: 100%;	
 		@include transition-duration(0.2s);
@@ -44,8 +43,13 @@
 		
 		a:first-child
 		{
+			display: inline-block;
 			font-size: 1.12em;
 			font-weight: 600;
+			overflow: hidden;
+			text-overflow: ellipsis;
+			white-space: nowrap;
+			width: 100%;
 		}
 		
 		a:last-child
@@ -99,8 +103,9 @@
 	@extend .alternate-layout;
 	background: transparent url(/images/project_fcs_bg_full.png) no-repeat 39% 30%;
 	@include background-size('94%');
+	margin-bottom: 0px;
 	padding: 15% 0 8% 0;
-	
+		
 	h1
 	{
 		background-color: desaturate(#f78104, 10%);
@@ -139,12 +144,32 @@
 	}
 }
 
+#jribbble
+{
+	background: transparent url(/images/project_jribbble_bg_full.png) no-repeat right 4%;
+	@include background-size('65%');
+	margin-bottom: -40px;
+	padding: 26% 0 8% 0;
+	position: relative;
+	top: -70px;
+		
+	h1
+	{
+		background-color: #fb389d;
+		clear: both;
+		font-size: 7.4em;
+		line-height: 0.8;
+		margin-bottom: 10px;
+	}
+}
+
 #themanfromhollywood
 {
 	background: transparent url(/images/project_mfh_bg_full.png) no-repeat right 45%;
 	@include background-size('98%');
+	margin: 10px 0 95px 0;
 	padding: 11% 0 2% 0;
-	
+		
 	h1
 	{
 		background-image: none;
